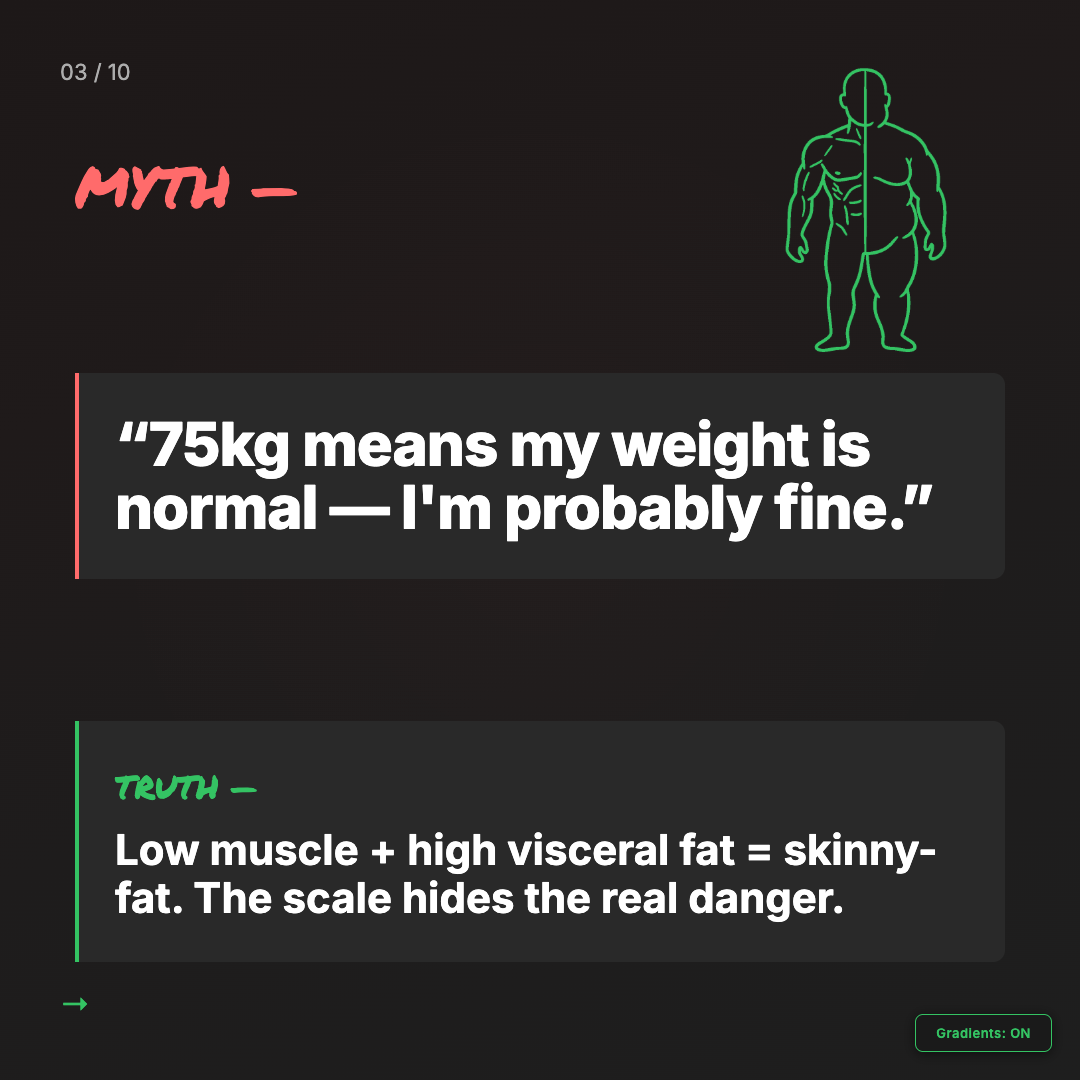
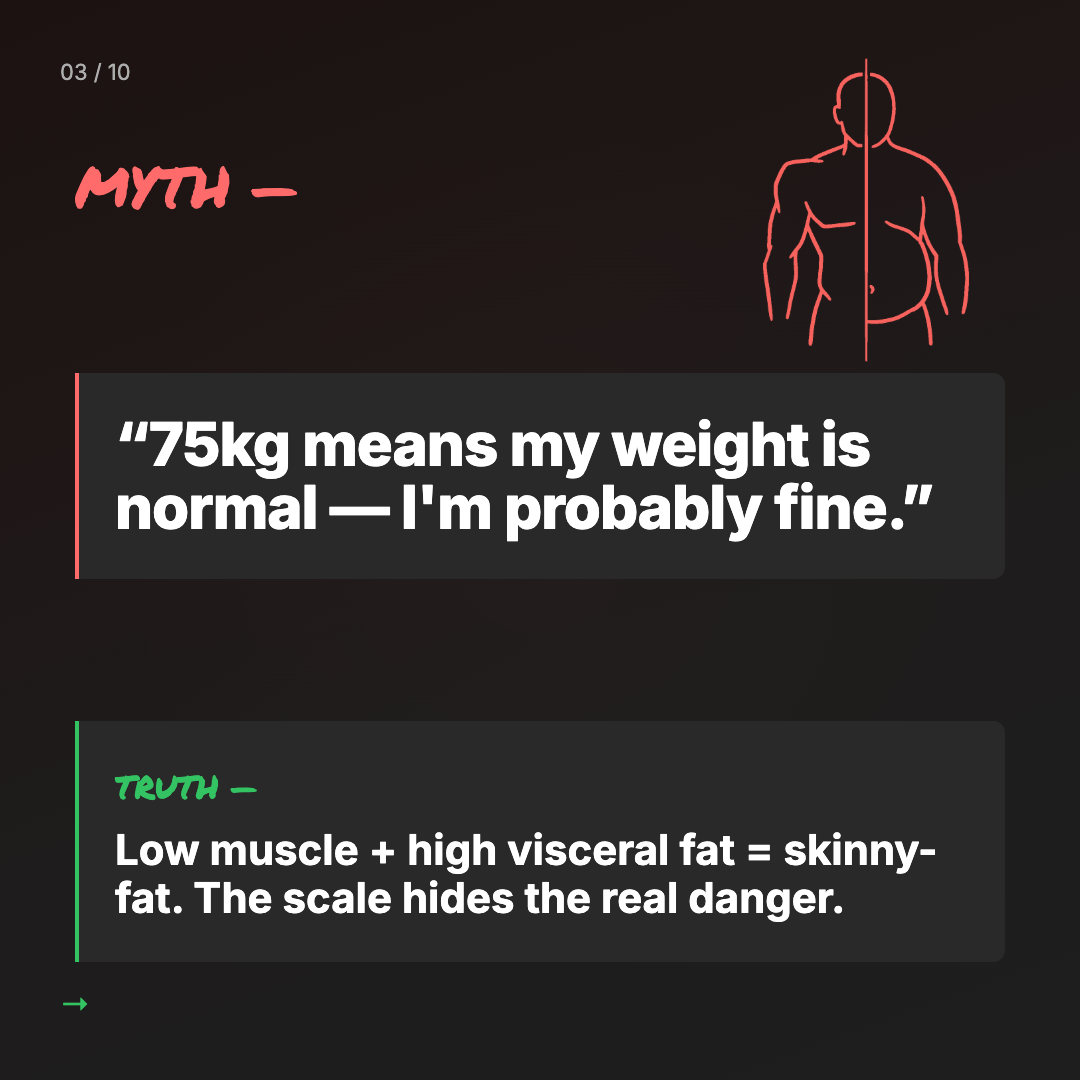
vault backup: 2026-05-15 13:00:57

Changed region(s): [[0.7028, 0.0611, 0.9167, 0.3361], [0.8556, 0.9472, 0.9778, 0.9778]]

diff --git a/dadfit/dadfit-content/Carousels/skills/step10-html-to-images/scripts/export_batch.js b/dadfit/dadfit-content/Carousels/skills/step10-html-to-images/scripts/export_batch.js
@@ -27,7 +27,9 @@ function parseArgs() {
   const get  = (flag) => { const i = args.indexOf(flag); return i !== -1 ? args[i + 1] : null; };
   const batchNo   = get('--batch');   // optional — falls back to latest in DB
   const workspace = get('--workspace') || process.cwd();
-  return { batchNo, workspace };
+  const uuidsArg  = get('--uuids');    // optional — comma-separated UUIDs to force-process
+  const forceUuids = uuidsArg ? uuidsArg.split(',').map(s => s.trim()).filter(Boolean) : null;
+  return { batchNo, workspace, forceUuids };
 }
 
 // ── SQLite helpers (sql.js — same approach as the web server) ───────────────
@@ -97,7 +99,7 @@ async function renderCarousel(page, htmlPath, slidesDir) {
 
 // ── Main ─────────────────────────────────────────────────────────────────────
 async function main() {
-  const { batchNo: argBatch, workspace } = parseArgs();
+  const { batchNo: argBatch, workspace, forceUuids } = parseArgs();
 
   const dbPath = path.join(workspace, 'Carousels', 'data', 'db.sqlite');
   if (!fs.existsSync(dbPath)) { console.error(`❌  DB not found: ${dbPath}`); process.exit(1); }
@@ -117,17 +119,33 @@ async function main() {
   const batchDir = path.join(workspace, 'Carousels', 'data', `batch_${batchNo}`);
   if (!fs.existsSync(batchDir)) { console.error(`❌  Batch dir not found: ${batchDir}`); process.exit(1); }
 
-  const carousels = queryAll(db,
-    `SELECT uuid, running_no, folder_name, title
-     FROM Carousel
-     WHERE batch_no = ? AND current_stage = 'HTML_APPROVED'
-     ORDER BY running_no`,
-    [batchNo]
-  );
-
-  if (carousels.length === 0) {
-    console.log('ℹ   No HTML_APPROVED carousels found for this batch.');
-    return;
+  let carousels;
+  if (forceUuids && forceUuids.length > 0) {
+    const placeholders = forceUuids.map(() => '?').join(',');
+    carousels = queryAll(db,
+      `SELECT uuid, running_no, folder_name, title
+       FROM Carousel
+       WHERE batch_no = ? AND uuid IN (${placeholders})
+       ORDER BY running_no`,
+      [batchNo, ...forceUuids]
+    );
+    if (carousels.length === 0) {
+      console.log('ℹ   No matching carousels found for the provided UUIDs in this batch.');
+      return;
+    }
+    console.log(`⚡  Force mode: processing ${carousels.length} carousel(s) by UUID (stage check bypassed).\n`);
+  } else {
+    carousels = queryAll(db,
+      `SELECT uuid, running_no, folder_name, title
+       FROM Carousel
+       WHERE batch_no = ? AND current_stage = 'DOODLES_DONE'
+       ORDER BY running_no`,
+      [batchNo]
+    );
+    if (carousels.length === 0) {
+      console.log('ℹ   No DOODLES_DONE carousels found for this batch.');
+      return;
+    }
   }
 
   console.log(`📦  Found ${carousels.length} HTML_APPROVED carousel(s) to process.\n`);

diff --git a/dadfit/dadfit-content/Carousels/data/batch_1/2_0fb04dd8-7f8a-410d-bfa2-632e6bc34445/carousel.html b/dadfit/dadfit-content/Carousels/data/batch_1/2_0fb04dd8-7f8a-410d-bfa2-632e6bc34445/carousel.html
@@ -313,7 +313,7 @@
 <div class="s-bg slide-type-A1" style="background:linear-gradient(145deg,#0c1610 0%,#121e15 30%,#17211a 58%,#1c1e1c 100%);"></div>
 <div class="gradient-glow" style="position:absolute;inset:0;background:radial-gradient(ellipse at 75% 88%,rgba(52,195,99,0.10) 0%,rgba(52,195,99,0.02) 40%,transparent 65%);pointer-events:none;"></div>
 <div class="doodle-ph" style="right:150px;bottom:40px;">
-  <img src="../doodles/2-d-01.png" alt="A flexed arm shielding a fat droplet" />
+  <img src="../doodles/2-d-01.png" alt="A flexed arm shielding a fat droplet" style="padding: 20px;" />
   <div class="doodle-ph-icon">
     <svg width="44" height="44" viewBox="0 0 44 44" fill="none"><path d="M32 4L40 12L14 38H6V30L32 4Z" stroke="#34C363" stroke-width="2" stroke-linejoin="round"/><path d="M26 10L34 18" stroke="#34C363" stroke-width="2"/><path d="M6 30L14 38" stroke="#34C363" stroke-width="2"/></svg>
     <span>Doodle<br>placeholder</span>

diff --git a/dadfit/dadfit-content/Carousels/scripts/step12_publisher.py b/dadfit/dadfit-content/Carousels/scripts/step12_publisher.py
@@ -130,13 +130,14 @@ def convert_png_to_jpeg(png_path: Path) -> Path:
 
 # ── Temp image hosting ─────────────────────────────────────────────────────────
 
-def upload_to_catbox(jpeg_path: Path) -> str:
-    """Upload a JPEG to catbox.moe (anonymous, free). Returns a permanent public URL."""
-    with open(jpeg_path, "rb") as f:
+def upload_to_catbox(img_path: Path) -> str:
+    """Upload an image to catbox.moe (anonymous, free). Returns a permanent public URL."""
+    mime = "image/png" if img_path.suffix.lower() == ".png" else "image/jpeg"
+    with open(img_path, "rb") as f:
         resp = requests.post(
             "https://catbox.moe/user/api.php",
             data={"reqtype": "fileupload"},
-            files={"fileToUpload": (jpeg_path.name, f, "image/jpeg")},
+            files={"fileToUpload": (img_path.name, f, mime)},
             timeout=60,
         )
     resp.raise_for_status()
@@ -291,14 +292,17 @@ def cmd_publish(args):
             # Instagram carousel max = 10 slides
             slide_paths = slide_paths[:10]
 
-            # Convert PNGs → JPEG
-            print(f"   Converting {len(slide_paths)} slide(s) to JPEG …")
-            jpeg_paths = [convert_png_to_jpeg(p) for p in slide_paths]
+            # Optionally convert PNGs → JPEG
+            if getattr(args, 'no_convert', False):
+                upload_paths = slide_paths
+                print(f"   Uploading {len(upload_paths)} PNG(s) to catbox.moe (no conversion) …")
+            else:
+                print(f"   Converting {len(slide_paths)} slide(s) to JPEG …")
+                upload_paths = [convert_png_to_jpeg(p) for p in slide_paths]
+                print(f"   Uploading {len(upload_paths)} image(s) to catbox.moe …")
 
-            # Upload each JPEG to catbox.moe to get public URLs
-            print(f"   Uploading {len(jpeg_paths)} image(s) to catbox.moe …")
             slide_urls = []
-            for i, jp in enumerate(jpeg_paths, 1):
+            for i, jp in enumerate(upload_paths, 1):
                 url = upload_to_catbox(jp)
                 print(f"     Slide {i:02d}: {url}")
                 slide_urls.append(url)
@@ -336,8 +340,11 @@ def cmd_publish(args):
                 print(f"   ✓  Published! Instagram Media ID: {media_id}")
 
                 # Update DB
-                mark_published(conn, c["uuid"])
-                print(f"   ✓  DB updated → upload_status=PUBLISHED, current_stage=PUBLISHED")
+                if not getattr(args, 'no_db_update', False):
+                    mark_published(conn, c["uuid"])
+                    print(f"   ✓  DB updated → upload_status=PUBLISHED, current_stage=PUBLISHED")
+                else:
+                    print(f"   ⚠  Skipping DB update (--no-db-update set)")
                 results.append((c["running_no"], c["title"], media_id))
 
     finally:
@@ -371,6 +378,8 @@ def main():
     # publish
     pub = sub.add_parser("publish", help="Publish specific carousels to Instagram")
     pub.add_argument("--uuids", required=True, help="Comma-separated list of carousel UUIDs")
+    pub.add_argument("--no-db-update", action="store_true", help="Publish but skip DB status update (for testing)")
+    pub.add_argument("--no-convert", action="store_true", help="Upload PNGs directly without converting to JPEG")
 
     args = parser.parse_args()
 

diff --git a/dadfit/dadfit-content/Carousels/scripts/process_doodles.py b/dadfit/dadfit-content/Carousels/scripts/process_doodles.py
@@ -64,7 +64,7 @@ def detect_ink_color(arr: np.ndarray, is_ink: np.ndarray) -> tuple:
 
 def process_image(path: str, threshold: int, dry_run: bool = False) -> dict:
     """
-    Load image, remove background, recolor ink to its own median color.
+    Load image, remove background only — ink pixels keep their original colors.
     Overwrites the original file as RGBA PNG.
     """
     img = Image.open(path).convert("RGB")
@@ -83,20 +83,21 @@ def process_image(path: str, threshold: int, dry_run: bool = False) -> dict:
     is_bg  = dist <= threshold
     is_ink = ~is_bg
 
-    # 4. Auto-detect ink color from the minority (ink) pixels
-    ink_color = detect_ink_color(arr, is_ink)
-
-    # 5. Build RGBA output
+    # 4. Build RGBA output — preserve original ink colors, remove only background
     out = np.zeros((h, w, 4), dtype=np.uint8)
+    orig = arr.astype(np.uint8)
 
     # Background → fully transparent
     out[is_bg, 3] = 0
 
-    # Ink → detected ink color, fully opaque
-    out[is_ink, 0] = ink_color[0]
-    out[is_ink, 1] = ink_color[1]
-    out[is_ink, 2] = ink_color[2]
+    # Ink → original RGB, fully opaque
+    out[is_ink, 0] = orig[is_ink, 0]
+    out[is_ink, 1] = orig[is_ink, 1]
+    out[is_ink, 2] = orig[is_ink, 2]
     out[is_ink, 3] = 255
+
+    # Derive a representative ink color for reporting only
+    ink_color = detect_ink_color(arr, is_ink)
 
     result = Image.fromarray(out, "RGBA")
 
@@ -146,7 +147,7 @@ def main():
     print(f"  Folder    : {doodles_dir}")
     print(f"  Files     : {len(pngs)}")
     print(f"  Threshold : {args.threshold}")
-    print(f"  Ink color : auto-detected per image (minority color)")
+    print(f"  Ink color : original colors preserved (bg removed only)")
     print(f"  Dry run   : {'YES (no files saved)' if args.dry_run else 'NO (files will be overwritten)'}")
     print()
 
